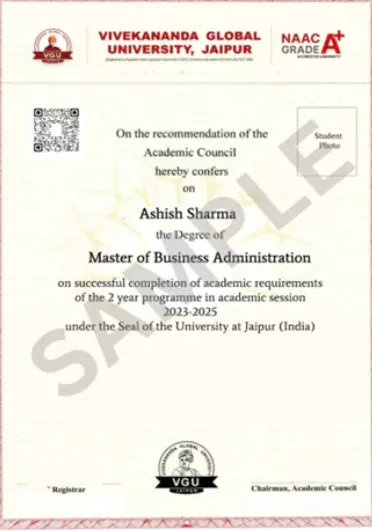
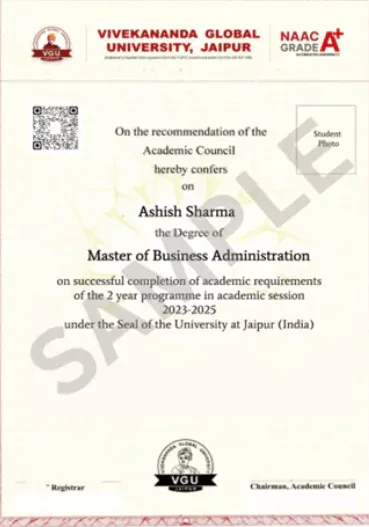
style(vgu): remove white background card container so sample degree certificate sits directly on degree section background

diff --git a/src/components/landing/LandingDegree.jsx b/src/components/landing/LandingDegree.jsx
@@ -278,17 +278,15 @@ export default function LandingDegree({
 
               {/* Right Column: Sample Degree Certificate */}
               <div className="lg:col-span-5 flex justify-center items-center">
-                <div className="relative w-[215px] sm:w-[245px] md:w-[265px] bg-white rounded-[4px] shadow-[0_8px_25px_rgba(0,0,0,0.10)] border border-slate-200/80 p-2 sm:p-2.5 flex items-center justify-center">
-                  <div className="relative w-full aspect-[372/531]">
-                    <Image
-                      src={image || "/assets/all_universities_images/vgu/sample-degree-vgu-clean.webp"}
-                      alt="Sample Degree Vivekananda Global University"
-                      fill
-                      className="object-contain"
-                      sizes="(max-width: 640px) 240px, 280px"
-                      priority
-                    />
-                  </div>
+                <div className="relative w-[220px] sm:w-[255px] md:w-[275px] aspect-[369/527]">
+                  <Image
+                    src={image || "/assets/all_universities_images/vgu/sample-degree-vgu-clean.webp"}
+                    alt="Sample Degree Vivekananda Global University"
+                    fill
+                    className="object-contain"
+                    sizes="(max-width: 640px) 240px, 280px"
+                    priority
+                  />
                 </div>
               </div>
             </div>
